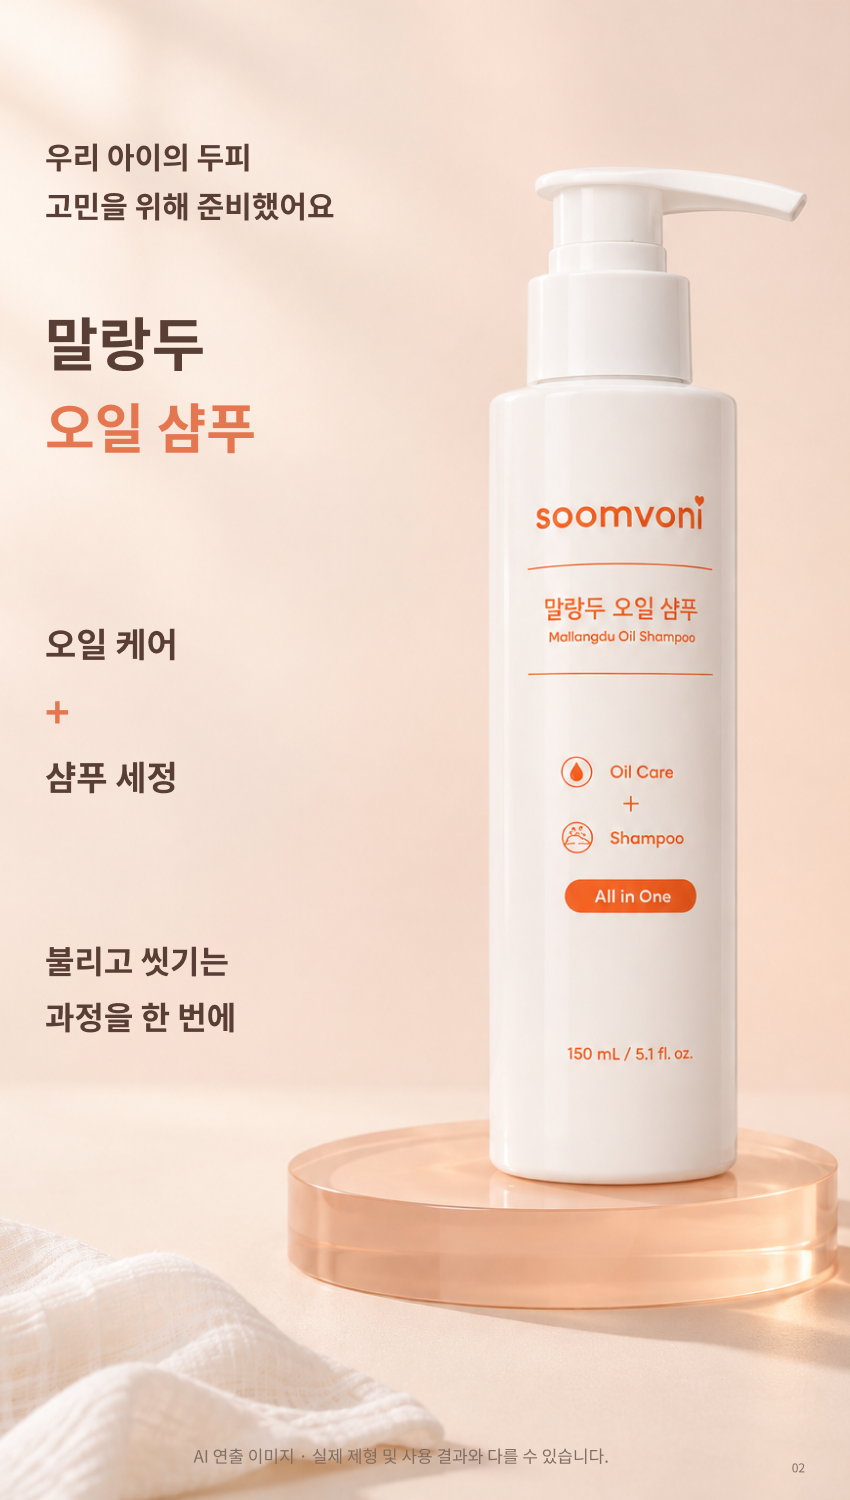
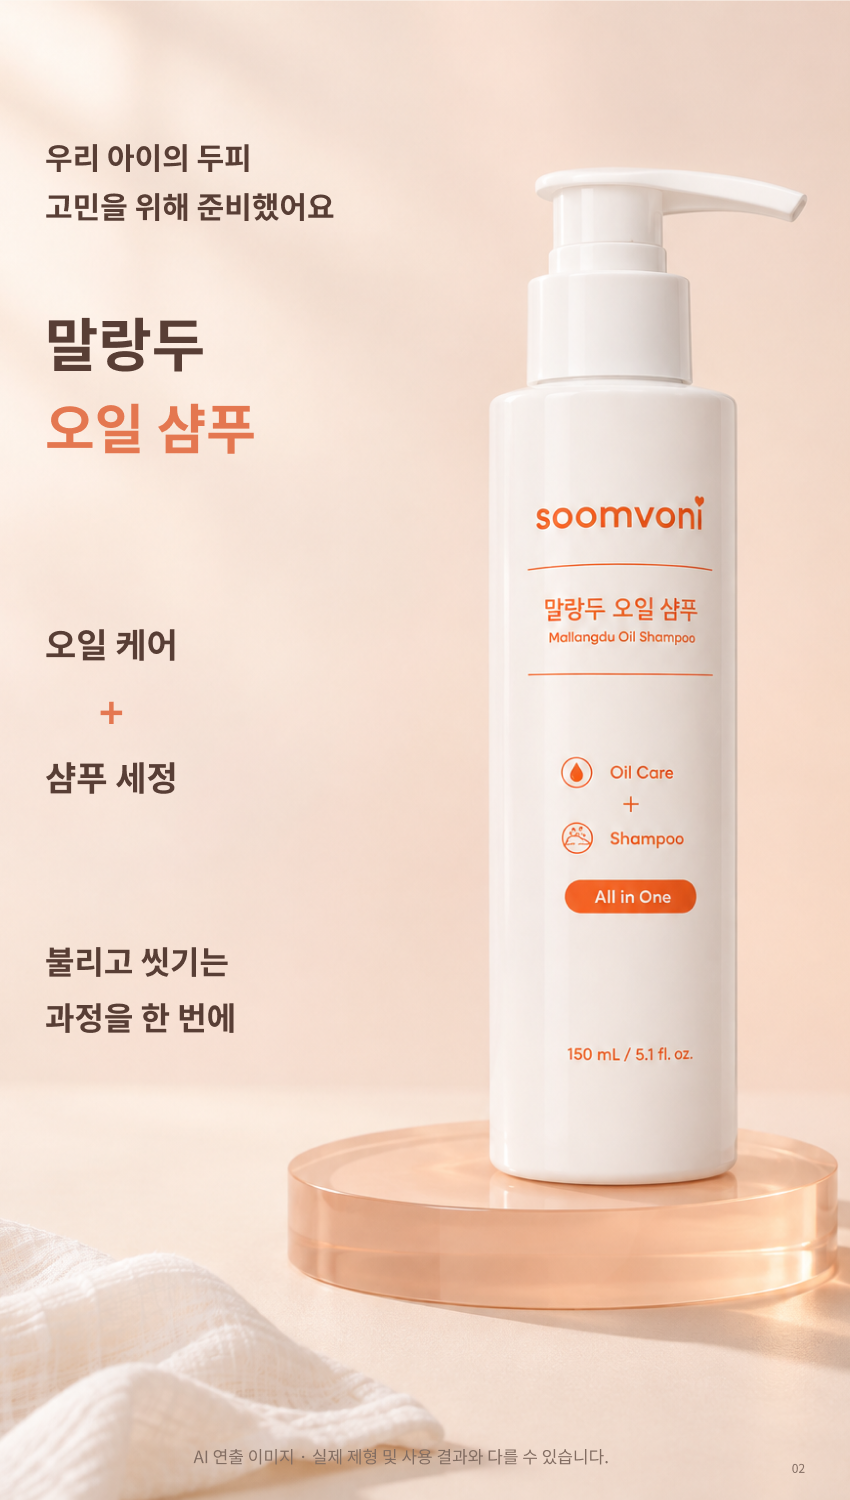
Center plus between oil care and shampoo cleansing

diff --git a/resole-lotion-demo/product/soomvoni-mallangdu.html b/resole-lotion-demo/product/soomvoni-mallangdu.html
@@ -18,18 +18,18 @@
 <div class="notice-bar">RESOLE DESIGN · PORTFOLIO</div>
 <header class="store-header"><div class="store-shell header-row"><a class="store-logo" href="../">RESOLE</a><nav class="store-nav" aria-label="주요 메뉴"><a href="../#new">NEW</a><a href="../#all">ALL</a><a href="../#about">ABOUT</a></nav></div></header>
 <main><div class="breadcrumb store-shell"><a href="../">HOME</a><span>/</span><span>숨보니 말랑두 오일 샴푸</span></div>
-<section class="product store-shell"><div class="gallery-panel"><div class="gallery-main"><img id="mainImage" src="../assets/soomvoni-mallangdu/shop/hero-r21.png?v=20261128-soomvoni-r21" alt="숨보니 말랑두 오일 샴푸 150 mL" width="1024" height="1536"></div></div>
+<section class="product store-shell"><div class="gallery-panel"><div class="gallery-main"><img id="mainImage" src="../assets/soomvoni-mallangdu/shop/hero-r21.png?v=20261128-soomvoni-r22" alt="숨보니 말랑두 오일 샴푸 150 mL" width="1024" height="1536"></div></div>
 <aside class="purchase-panel"><p class="eyebrow">soomvoni · MALLANGDU</p><h1>말랑두 오일 샴푸 150 mL</h1><p class="sub-title">오일 케어와 샴푸 세정을 한 병으로.</p><div class="price-box"><div class="price-line"><strong class="sale-price">29,800원</strong></div></div><div class="shipping-info"><strong>배송비</strong><span>별도</span></div><ul class="key-points"><li>오일 케어 + 샴푸 올인원</li><li>신생아·유아 두피 및 모발 세정</li><li>150 mL / 5.1 fl. oz.</li></ul><div class="action-row"><a class="btn btn-primary" href="#detail">상세페이지 보기</a></div></aside></section>
 <nav class="detail-tabs store-shell" aria-label="프로젝트 구성"><a class="active" href="#detail">상세페이지</a><a href="#info">프로젝트 정보</a></nav>
-<section id="detail" class="detail"><div class="detail-stack"><img class="detail-image" src="../assets/soomvoni-mallangdu/detail/p01.png?v=20261128-soomvoni-r21" alt="숨보니 P01 · 아기 두피 고민" width="850" height="1900" loading="lazy" decoding="async" data-page="P01">
-<img class="detail-image" src="../assets/soomvoni-mallangdu/detail/p02.png?v=20261128-soomvoni-r21" alt="숨보니 P02 · 오일 케어와 샴푸를 한 병으로" width="850" height="1500" loading="lazy" decoding="async" data-page="P02">
-<img class="detail-image" src="../assets/soomvoni-mallangdu/detail/p03.png?v=20261128-soomvoni-r21" alt="숨보니 P03 · 두피 저자극 시험 결과" width="850" height="2100" loading="lazy" decoding="async" data-page="P03">
-<img class="detail-image" src="../assets/soomvoni-mallangdu/detail/p04.png?v=20261128-soomvoni-r21" alt="숨보니 P04 · 코코넛 유래 세정 성분" width="850" height="1750" loading="lazy" decoding="async" data-page="P04">
-<img class="detail-image" src="../assets/soomvoni-mallangdu/detail/p05.png?v=20261128-soomvoni-r21" alt="숨보니 P05 · 함께 담은 보습 성분" width="850" height="1950" loading="lazy" decoding="async" data-page="P05">
-<img class="detail-image" src="../assets/soomvoni-mallangdu/detail/p06.png?v=20261128-soomvoni-r21" alt="숨보니 P06 · 슬로우 제조기법" width="850" height="1850" loading="lazy" decoding="async" data-page="P06">
-<img class="detail-image" src="../assets/soomvoni-mallangdu/detail/p07.png?v=20261128-soomvoni-r21" alt="숨보니 P07 · 말랑두 오일 샴푸의 선택 기준" width="850" height="1800" loading="lazy" decoding="async" data-page="P07">
-<img class="detail-image" src="../assets/soomvoni-mallangdu/detail/p08.png?v=20261128-soomvoni-r21" alt="숨보니 P08 · 제형과 사용 방법" width="850" height="1950" loading="lazy" decoding="async" data-page="P08">
-<img class="detail-image" src="../assets/soomvoni-mallangdu/detail/p09.png?v=20261128-soomvoni-r21" alt="숨보니 P09 · 자주 묻는 질문" width="850" height="2050" loading="lazy" decoding="async" data-page="P09">
-<img class="detail-image" src="../assets/soomvoni-mallangdu/detail/p10.png?v=20261128-soomvoni-r21" alt="숨보니 P10 · 제품 표시정보와 전성분 및 사용 시 주의사항" width="850" height="3100" loading="lazy" decoding="async" data-page="P10"></div></section>
+<section id="detail" class="detail"><div class="detail-stack"><img class="detail-image" src="../assets/soomvoni-mallangdu/detail/p01.png?v=20261128-soomvoni-r22" alt="숨보니 P01 · 아기 두피 고민" width="850" height="1900" loading="lazy" decoding="async" data-page="P01">
+<img class="detail-image" src="../assets/soomvoni-mallangdu/detail/p02.png?v=20261128-soomvoni-r22" alt="숨보니 P02 · 오일 케어와 샴푸를 한 병으로" width="850" height="1500" loading="lazy" decoding="async" data-page="P02">
+<img class="detail-image" src="../assets/soomvoni-mallangdu/detail/p03.png?v=20261128-soomvoni-r22" alt="숨보니 P03 · 두피 저자극 시험 결과" width="850" height="2100" loading="lazy" decoding="async" data-page="P03">
+<img class="detail-image" src="../assets/soomvoni-mallangdu/detail/p04.png?v=20261128-soomvoni-r22" alt="숨보니 P04 · 코코넛 유래 세정 성분" width="850" height="1750" loading="lazy" decoding="async" data-page="P04">
+<img class="detail-image" src="../assets/soomvoni-mallangdu/detail/p05.png?v=20261128-soomvoni-r22" alt="숨보니 P05 · 함께 담은 보습 성분" width="850" height="1950" loading="lazy" decoding="async" data-page="P05">
+<img class="detail-image" src="../assets/soomvoni-mallangdu/detail/p06.png?v=20261128-soomvoni-r22" alt="숨보니 P06 · 슬로우 제조기법" width="850" height="1850" loading="lazy" decoding="async" data-page="P06">
+<img class="detail-image" src="../assets/soomvoni-mallangdu/detail/p07.png?v=20261128-soomvoni-r22" alt="숨보니 P07 · 말랑두 오일 샴푸의 선택 기준" width="850" height="1800" loading="lazy" decoding="async" data-page="P07">
+<img class="detail-image" src="../assets/soomvoni-mallangdu/detail/p08.png?v=20261128-soomvoni-r22" alt="숨보니 P08 · 제형과 사용 방법" width="850" height="1950" loading="lazy" decoding="async" data-page="P08">
+<img class="detail-image" src="../assets/soomvoni-mallangdu/detail/p09.png?v=20261128-soomvoni-r22" alt="숨보니 P09 · 자주 묻는 질문" width="850" height="2050" loading="lazy" decoding="async" data-page="P09">
+<img class="detail-image" src="../assets/soomvoni-mallangdu/detail/p10.png?v=20261128-soomvoni-r22" alt="숨보니 P10 · 제품 표시정보와 전성분 및 사용 시 주의사항" width="850" height="3100" loading="lazy" decoding="async" data-page="P10"></div></section>
 <section id="info" class="info-section store-shell detail-narrow"><h2>프로젝트 정보</h2><div class="info-grid"><div><span>브랜드</span><strong>숨보니 · soomvoni</strong></div><div><span>제품명</span><strong>말랑두 오일 샴푸</strong></div><div><span>제작 범위</span><strong>상세페이지 10P</strong></div></div><p>대표 기획안을 반영한 상세페이지 10P이며 실제 결제는 제공되지 않습니다.</p></section>
 </main><footer class="store-footer"><div class="store-shell"><strong>RESOLE DESIGN</strong><p>Cosmetics · Package · Detail Page Design</p></div></footer></body></html>

diff --git a/resole-lotion-demo/index.html b/resole-lotion-demo/index.html
@@ -53,7 +53,7 @@
     <section id="new" class="store-section store-shell">
       <div class="store-section-head"><div><p class="section-kicker">NEW ARRIVAL</p><h2>새롭게 만나는 RESOLE</h2></div><a href="#all">전체보기 <span>→</span></a></div>
       <div class="product-rail" aria-label="신상품 목록">
-<article class="product-card"><a href="product/soomvoni-mallangdu.html?v=20261128-soomvoni-r21" class="product-image-wrap"><span class="card-badge mist">NEW</span><img src="assets/soomvoni-mallangdu/shop/hero-r21.png?v=20261128-soomvoni-r21" alt="숨보니 말랑두 오일 샴푸 150 mL"></a><div class="product-card-body"><p class="product-brand">soomvoni</p><a href="product/soomvoni-mallangdu.html?v=20261128-soomvoni-r21" class="product-name">말랑두 오일 샴푸 150 mL</a><div class="product-price"><strong>29,800원</strong></div><p class="product-meta">오일 케어와 샴푸를 한 병으로</p></div></article>
+<article class="product-card"><a href="product/soomvoni-mallangdu.html?v=20261128-soomvoni-r22" class="product-image-wrap"><span class="card-badge mist">NEW</span><img src="assets/soomvoni-mallangdu/shop/hero-r21.png?v=20261128-soomvoni-r22" alt="숨보니 말랑두 오일 샴푸 150 mL"></a><div class="product-card-body"><p class="product-brand">soomvoni</p><a href="product/soomvoni-mallangdu.html?v=20261128-soomvoni-r22" class="product-name">말랑두 오일 샴푸 150 mL</a><div class="product-price"><strong>29,800원</strong></div><p class="product-meta">오일 케어와 샴푸를 한 병으로</p></div></article>
         <article class="product-card">
           <a href="product/ecrive-barrier-lotion.html?v=20261022-r2" class="product-image-wrap"><span class="card-badge mist">NEW</span><img src="assets/ecrive-barrier-lotion/shop/01-copy-launch.jpg?v=20260928-r1" alt="ECRIVE 베리어 로션 300 mL" /></a>
           <div class="product-card-body"><p class="product-brand">ECRIVE</p><a href="product/ecrive-barrier-lotion.html?v=20261022-r2" class="product-name">베리어 로션 300 mL</a><div class="product-price"><strong>34,900원</strong><del>39,000원</del></div><p class="product-meta">바르고 또 발라도, 반복되는 건조함을 위한 보습</p></div>
@@ -87,7 +87,7 @@
     <section id="all" class="store-section store-shell compact-bottom">
       <div class="store-section-head"><div><p class="section-kicker">ALL PRODUCTS</p><h2>전체 상품</h2></div></div>
       <div class="all-product-grid">
-<article class="product-card"><a href="product/soomvoni-mallangdu.html?v=20261128-soomvoni-r21" class="product-image-wrap"><span class="card-badge mist">NEW</span><img src="assets/soomvoni-mallangdu/shop/hero-r21.png?v=20261128-soomvoni-r21" alt="숨보니 말랑두 오일 샴푸 150 mL"></a><div class="product-card-body"><p class="product-brand">soomvoni</p><a href="product/soomvoni-mallangdu.html?v=20261128-soomvoni-r21" class="product-name">말랑두 오일 샴푸 150 mL</a><div class="product-price"><strong>29,800원</strong></div><p class="product-meta">오일 케어와 샴푸를 한 병으로</p></div></article>
+<article class="product-card"><a href="product/soomvoni-mallangdu.html?v=20261128-soomvoni-r22" class="product-image-wrap"><span class="card-badge mist">NEW</span><img src="assets/soomvoni-mallangdu/shop/hero-r21.png?v=20261128-soomvoni-r22" alt="숨보니 말랑두 오일 샴푸 150 mL"></a><div class="product-card-body"><p class="product-brand">soomvoni</p><a href="product/soomvoni-mallangdu.html?v=20261128-soomvoni-r22" class="product-name">말랑두 오일 샴푸 150 mL</a><div class="product-price"><strong>29,800원</strong></div><p class="product-meta">오일 케어와 샴푸를 한 병으로</p></div></article>
         <article class="product-card"><a href="product/ecrive-barrier-lotion.html?v=20261022-r2" class="product-image-wrap"><img src="assets/ecrive-barrier-lotion/shop/06-image-main.jpg?v=20260928-r1" alt="ECRIVE 베리어 로션 300 mL" /></a><div class="product-card-body"><p class="product-brand">ECRIVE</p><a href="product/ecrive-barrier-lotion.html?v=20261022-r2" class="product-name">베리어 로션 300 mL</a><div class="product-price"><strong>34,900원</strong><del>39,000원</del></div></div></article>
         <article class="product-card"><a href="product/goyobam.html?v=20260908-r10" class="product-image-wrap"><img src="assets/goyobam/shop/thumb06.png?v=20260827-r1" alt="ROOTEDIT GOYOBAM 고요밤 150 ml" /></a><div class="product-card-body"><p class="product-brand">ROOTEDIT</p><a href="product/goyobam.html?v=20260908-r10" class="product-name">GOYOBAM 고요밤 150 ml</a><div class="product-availability"><strong>PORTFOLIO</strong><span>상세 보기</span></div></div></article>
         <article class="product-card"><a href="product/cream-mist.html" class="product-image-wrap"><img src="assets/cream-mist/shop/thumb05.jpg" alt="RESOLE 크림 미스트 80 mL" /></a><div class="product-card-body"><p class="product-brand">RESOLE</p><a href="product/cream-mist.html" class="product-name">크림 미스트 80 mL</a><div class="product-price"><strong>23,000원</strong><span>30%</span></div></div></article>
